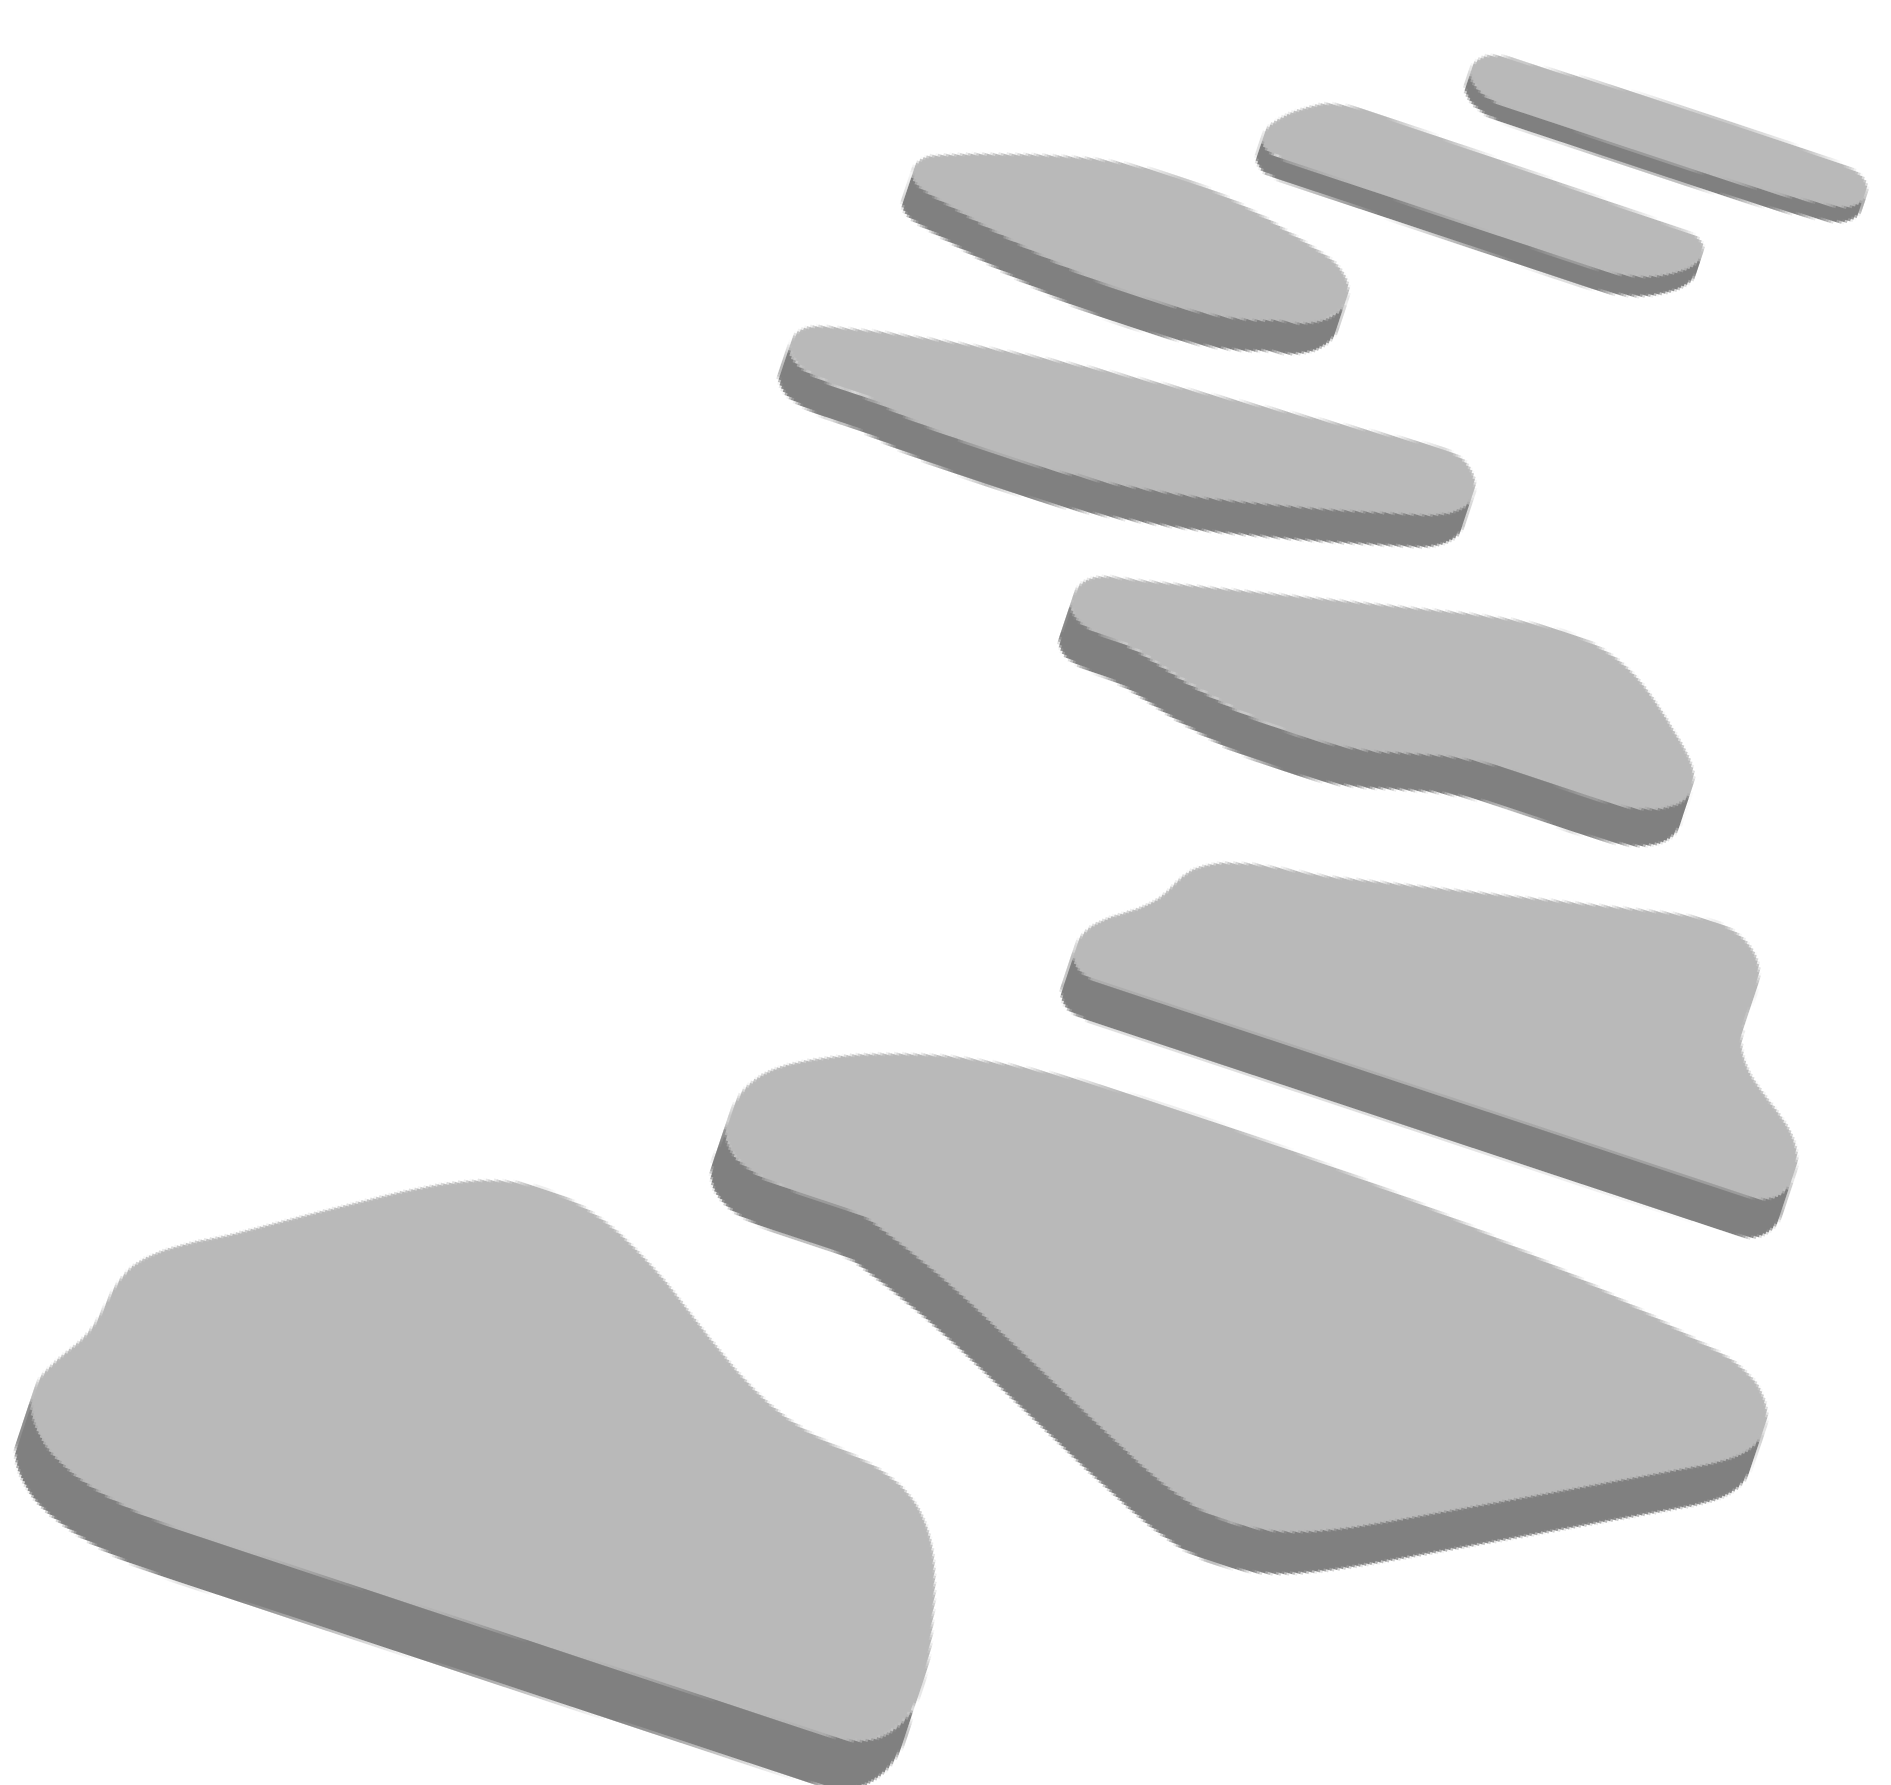
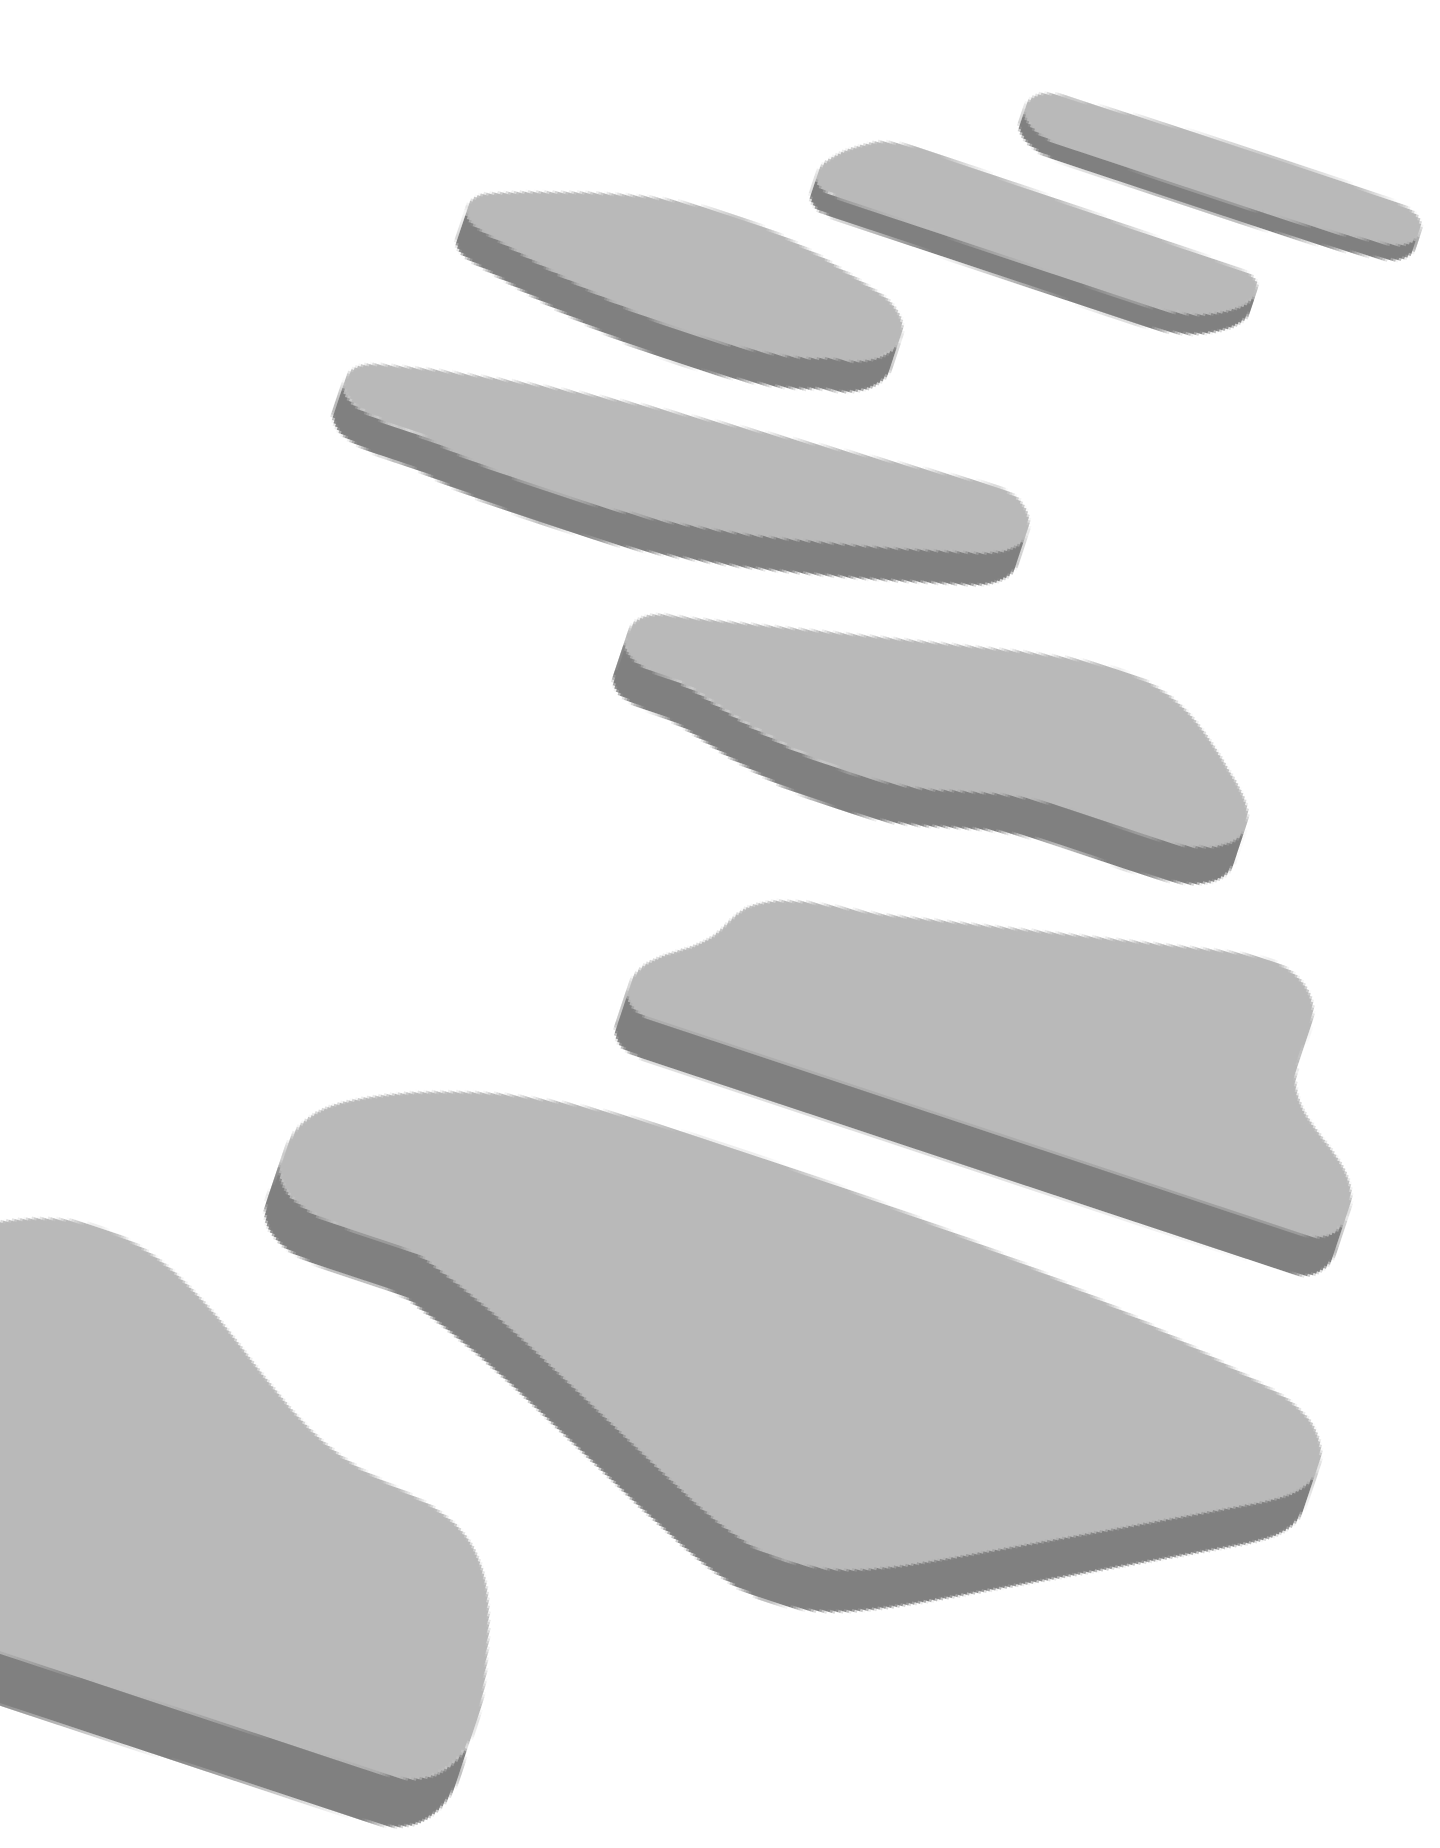
done uiux compe

diff --git a/src/components/reusable/Footer.jsx b/src/components/reusable/Footer.jsx
@@ -1,10 +1,61 @@
-import { rumput } from "../../assets";
+import { rumput, logo, unesa, ti, si, pti } from "../../assets";
+import { FaFacebook, FaInstagram, FaYoutube } from "react-icons/fa";
 const Footer = () => {
   return (
     <>
       <div>
-        <img className="w-full" src={rumput} alt="" />
-        <div className="w-full bg-[#523D31]"></div>
+        <img
+          className="w-full h-[200px] md:h-[350px] 2xl:h-[600px]"
+          src={rumput}
+          alt=""
+        />
+        <div className=" w-full h-[150px] md:h-[230px] xl:h-[250px] 2xl:h-[300px] bg-gradient-to-t from-[#01170A] via-[#003C18] to-[#006427] -mt-1">
+          <div className="flex w-full md:w-[740px] h-[100px] md:h-[140px] lg:w-[1000px] 2xl:w-[1400px] mx-auto px-2 py-4 2xl:pt-20">
+            <img
+              className="w-[70px] h-[80px] md:w-[120px] md:h-[120px] xl:w-[150px] xl:h-[150px]"
+              src={logo}
+              alt=""
+            />
+            <div className="flex justify-between w-full">
+              <div className="pt-4">
+                <p className="text-white md:text-xl xl:text-2xl ">
+                  Presented by:
+                </p>
+                <div className="flex gap-4">
+                  <img
+                    className="w-[26px] h-[26px] md:w-[40px] md:h-[40px] xl:w-[50px] xl:h-[50px]"
+                    src={unesa}
+                    alt=""
+                  />
+                  <img
+                    className="w-[23px] h-[23px] md:w-[30px] md:h-[33px] xl:w-[40px] xl:h-[44px]"
+                    src={ti}
+                    alt=""
+                  />
+                  <img
+                    className="w-[23px] h-[23px] md:w-[25px] md:h-[33px] xl:w-[40px] xl:h-[50px]"
+                    src={si}
+                    alt=""
+                  />
+                  <img
+                    className="w-[18px] h-[23px] md:w-[25px] md:h-[33px] xl:w-[35px] xl:h-[50px]"
+                    src={pti}
+                    alt=""
+                  />
+                </div>
+              </div>
+              <div className="flex justify-center gap-2 pt-10 md:pt-12 pr-5">
+                <FaFacebook className="text-white hover:text-gray-400 transition duration-300 w-[23px] h-[23px] md:w-[38px] md:h-[38px]  xl:w-12 xl:h-12 " />
+                <FaInstagram className="text-white hover:text-gray-400 transition duration-300 w-[23px] h-[23px] md:w-[38px] md:h-[38px]  xl:w-12 xl:h-12  " />
+
+                <FaYoutube className="text-white hover:text-gray-400 transition duration-300 w-[23px] h-[23px] md:w-[38px] md:h-[38px]  xl:w-12 xl:h-12 " />
+              </div>
+            </div>
+          </div>
+          <p className="text-white text-center text-[10px] md:text-sm xl:text-lg pt-2 md:pt-5 xl:pt-10 2xl:pt-24">
+            © 2024 X-PROJECT 9.0 HIMTI UNESA | All Rights Reserved
+          </p>
+        </div>
       </div>
     </>
   );

diff --git a/src/components/uiux/Detail.jsx b/src/components/uiux/Detail.jsx
@@ -4,11 +4,11 @@ import TimelineKanan from "../reusable/TimelineKanan";
 import TimelineKiri from "../reusable/TimelineKiri";
 import TimelineAkhir from "../reusable/TimelineTerakhir";
 import TitleDaftar from "../reusable/TitleDaftar";
-import { batuTingkat, batuFlip } from "../../assets";
+import { batuTingkat, batuFlip, batuKiri, batu, batu2xl } from "../../assets";
 const Detail = () => {
   return (
     <>
-      <div className=" pb-20 w-full h-full bg-cover bg-no-repeat -mt-1">
+      <div className="pb-20 w-full h-full bg-cover bg-no-repeat -mt-1">
         <div className="w-[160px] lg:w-[240px] xl:w-[270px] mx-auto flex flex-col justify-center z-10 text-center">
           <h1
             className=" md:text-xl lg:text-2xl text-white bg-[#523D31] rounded-xl  py-4 "
@@ -19,18 +19,27 @@ const Detail = () => {
         </div>
         <div>
           <img
-            className="absolute z-[-1] mt-[18rem] "
+            className="absolute z-[-1] mt-[18rem] lg:mt-[20rem] xl:mt-[15rem] 2xl:w-full  "
             src={batuTingkat}
             alt=""
           />
-          {/* <img className="absolute z-[-1] mt-[40rem] " src={batuFlip} alt="" /> */}
+          <img
+            className="absolute w-[200px] md:w-[350px] xl:w-[500px] 2xl:w-[700px] z-[-1] mt-[26rem] md:mt-[40rem] lg:mt-[50rem] 2xl:mt-[60rem] "
+            src={batuKiri}
+            alt=""
+          />
+          <img
+            className="absolute w-[200px] md:w-[350px] lg:w-[400px] xl:w-[600px] 2xl:w-[700px]  z-[-1] mt-[43rem] md:mt-[78rem] lg:mt-[94rem] xl:mt-[105rem] 2xl:mt-[145rem] right-0"
+            src={batu}
+            alt=""
+          />
         </div>
-        <div className="pt-10">
+        <div className="pt-10 md:w-[90%] xl:w-[87%] mx-auto">
           <TimelineKanan
             judul="Pendaftaran & Pengumpulan Berkas"
             isi="14 September - 24 Oktober 2024"
           />
-          <div className="-mt-5 md:-mt-6 lg:-mt-5">
+          <div className="-mt-5 ">
             <TimelineKiri judul="Pengumuman Semifinal" isi="31 Oktober 2024" />
           </div>
           <div className="-mt-5">

diff --git a/src/components/uiux/Overview.jsx b/src/components/uiux/Overview.jsx
@@ -66,32 +66,32 @@ const Overview = () => {
               alt=""
             />
             <img
-              className="absolute w-[150px] md:w-[350px] xl:w-[300px] mt-20 z-[-1] right-0 mt-[15rem]"
+              className="absolute w-[150px] md:w-[200px] xl:w-[250px] mt-20 z-[-1] right-0 mt-[15rem] xl:mt-[20rem]"
               src={rantingKanan}
               alt=""
             />
             <img
-              className="absolute w-[120px] md:w-[350px] xl:w-[450px]  z-[-2] right-0 mt-[21rem]"
+              className="absolute w-[120px] md:w-[200px] xl:w-[280px]  z-[-2] right-0 mt-[21rem] xl:mt-[26rem]"
               src={daunKanan}
               alt=""
             />
             <img
-              className="absolute w-full 2xl:-mt-40 2xl:h-[600px] mt-[22rem]  z-[-4]"
+              className="absolute w-full 2xl:-mt-40 2xl:h-[600px] mt-[22rem] md:mt-[30rem] xl:mt-[40rem] z-[-4]"
               src={gelombang}
               alt=""
             />
             <img
-              className="absolute w-full 2xl:-mt-40 2xl:h-[600px]  mt-[26rem] z-[-3]"
+              className="absolute w-full 2xl:-mt-40 2xl:h-[600px] xl:mt-[32rem]  mt-[26rem] z-[-3]"
               src={gelombang}
               alt=""
             />
             <img
-              className="absolute w-[120px] md:w-[350px] xl:w-[450px]  z-[-2] left-0 mt-[40rem]"
+              className="absolute w-[120px] md:w-[230px] xl:w-[240px]  z-[-2] left-0 mt-[40rem] xl:mt-[48rem]"
               src={daunKiriFlip}
               alt=""
             />
             <img
-              className="absolute w-[120px] md:w-[350px] xl:w-[450px] - z-[-2] left-0 mt-[35rem]"
+              className="absolute w-[120px] md:w-[180px] xl:w-[240px] z-[-2] left-0 mt-[35rem] xl:mt-[38rem]"
               src={rantingKiri}
               alt=""
             />

diff --git a/src/assets/index.js b/src/assets/index.js
@@ -12,6 +12,14 @@ import daunKiriFlip from "./img/attribut/daun-kiri-flip.png";
 import batuTingkat from "./img/attribut/batu-tingkat.png";
 import batuFlip from "./img/attribut/batu-flip.png";
 import rumput from "./img/attribut/rumput.png";
+import unesa from "./img/unesa.png";
+import ti from "./img/attribut/ti.png";
+import si from "./img/attribut/si.png";
+import pti from "./img/attribut/pti.png";
+import logo from "./img/logo.png";
+import batuKiri from "./img/attribut/batu-kiri.png";
+import batu from "./img/attribut/batu.png";
+import batu2xl from "./img/attribut/batu-2xl.png";
 export {
   goldTrophy,
   silverTrophy,
@@ -27,4 +35,12 @@ export {
   batuTingkat,
   batuFlip,
   rumput,
+  unesa,
+  ti,
+  si,
+  pti,
+  logo,
+  batuKiri,
+  batu,
+  batu2xl,
 };

diff --git a/src/components/reusable/TimelineKiri.jsx b/src/components/reusable/TimelineKiri.jsx
@@ -5,7 +5,7 @@ const TimelineKiri = ({ judul, isi }) => {
     <>
       <div className="grid w-full max-w-6xl grid-cols-9 mx-auto  ">
         {/* start */}
-        <div className=" col-span-4 w-[150px] md:w-[260px] lg:w-[300px] xl:w-[340px] mx-auto flex flex-col  text-center ml-6 md:ml-20 lg:ml-48 ">
+        <div className=" col-span-4 w-[150px] md:w-[260px] lg:w-[300px] xl:w-[340px] mx-auto flex flex-col  text-center max-[360px]:ml-3 ml-6 md:ml-20 lg:ml-40 ">
           <Title judul={judul} isi={isi} />
         </div>
         <div className="col-span-1 ">

diff --git a/src/components/reusable/TimelineTerakhir.jsx b/src/components/reusable/TimelineTerakhir.jsx
@@ -6,7 +6,7 @@ const TimelineAkhir = ({ judul, isi }) => {
       <div className="grid w-full max-w-6xl grid-cols-9 mx-auto ">
         {/* start */}
 
-        <div className="  col-span-4 w-[150px] md:w-[260px] lg:w-[300px] xl:w-[340px] mx-auto flex flex-col  text-center  ml-6 md:ml-20 lg:ml-48">
+        <div className="  col-span-4 w-[150px] md:w-[260px] lg:w-[300px] xl:w-[340px] mx-auto flex flex-col  text-center  ml-6 md:ml-20 lg:ml-40">
           <Title judul={judul} isi={isi} />
         </div>
 
